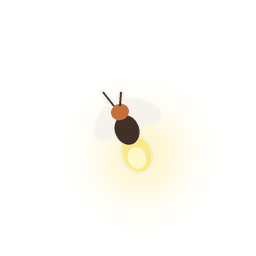
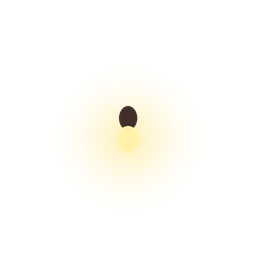
fixed firefly

Changed region(s): [[0.4062, 0.3438, 0.5938, 0.6875]]

diff --git a/Tools/CharacterArt/paint_firefly.py b/Tools/CharacterArt/paint_firefly.py
@@ -1,58 +1,23 @@
-"""The firefly companion: a tiny flat bug with a glowing tail and a soft warm glow, on a small transparent canvas.
-Deliberately plain: a few ellipses and a radial glow."""
+"""The firefly companion: a dark dot with a glowing tail and a soft warm glow. Two ellipses and a radial gradient."""
 import sys
 import numpy as np
-from PIL import Image, ImageDraw, ImageFilter
+from PIL import Image, ImageDraw
 
 N, SS = 256, 4
+CX, CY = 128, 128
 
-
-def layer():
-    return Image.new("RGBA", (N * SS, N * SS), (0, 0, 0, 0))
-
-
-def ellipse(im, cx, cy, rx, ry, colour, angle=0):
-    """An ellipse, rotated by `angle` degrees about its centre."""
-    t = np.linspace(0, 2 * np.pi, 90)
-    a = np.radians(angle)
-    x, y = rx * np.cos(t), ry * np.sin(t)
-    pts = [((cx + x[i] * np.cos(a) - y[i] * np.sin(a)) * SS, (cy + x[i] * np.sin(a) + y[i] * np.cos(a)) * SS) for i in range(len(t))]
-    ImageDraw.Draw(im).polygon(pts, fill=colour)
-
-
-TILT = -20  # leaning a little, as if flying
-CX, CY = 128, 132
-
-# Soft glow round the tail.
+# Soft warm glow.
 yy, xx = np.mgrid[0:N, 0:N]
-gx, gy = CX + 12, CY + 22
-r = np.hypot(xx - gx, yy - gy)
-glow = np.clip(1 - r / 96, 0, 1) ** 2.2 * 0.55
-glow_im = np.zeros((N, N, 4), np.uint8)
-glow_im[..., :3] = (255, 226, 120)
-glow_im[..., 3] = (glow * 255).astype(np.uint8)
-out = Image.fromarray(glow_im, "RGBA")
+glow = np.clip(1 - np.hypot(xx - CX, yy - (CY + 10)) / 90, 0, 1) ** 2.2 * 0.6
+pixels = np.zeros((N, N, 4), np.uint8)
+pixels[..., :3] = (255, 226, 120)
+pixels[..., 3] = (glow * 255).astype(np.uint8)
+out = Image.fromarray(pixels, "RGBA")
 
-bug = layer()
-# wings: two pale see-through ovals behind the body
-ellipse(bug, CX - 16, CY - 12, 22, 11, (246, 243, 236, 150), TILT - 35)
-ellipse(bug, CX + 10, CY - 20, 22, 11, (246, 243, 236, 150), TILT + 35)
-# glowing tail, then body and head
-ellipse(bug, CX + 9, CY + 22, 15, 19, (250, 232, 140, 255), TILT)
-ellipse(bug, CX + 9, CY + 26, 9, 11, (255, 248, 200, 255), TILT)
-ellipse(bug, CX - 1, CY - 2, 12, 15, (64, 48, 40, 255), TILT)
-ellipse(bug, CX - 8, CY - 20, 9, 8, (196, 112, 60, 255), TILT)  # the orange cap, like the other characters' feet
-# feelers
+# The bug: a dark body and a pale glowing tail.
+bug = Image.new("RGBA", (N * SS, N * SS), (0, 0, 0, 0))
 d = ImageDraw.Draw(bug)
-for dx in (-1, 1):
-    d.line([((CX - 11 + dx * 3) * SS, (CY - 26) * SS), ((CX - 16 + dx * 9) * SS, (CY - 40) * SS)], fill=(64, 48, 40, 255), width=2 * SS)
-
-bug = bug.resize((N, N), Image.LANCZOS)
-# a thin off-white edge round the bug, like the chalky outline on everyone else
-alpha = bug.split()[3].point(lambda v: 255 if v > 100 else 0)
-edge = alpha.filter(ImageFilter.MaxFilter(5)).filter(ImageFilter.GaussianBlur(0.6))
-rim = Image.new("RGBA", (N, N), (245, 243, 238, 0))
-rim.putalpha(edge.point(lambda v: int(v * 0.9)))
-out.alpha_composite(rim)
-out.alpha_composite(bug)
+d.ellipse([(CX - 9) * SS, (CY - 22) * SS, (CX + 9) * SS, (CY + 2) * SS], fill=(64, 48, 40, 255))
+d.ellipse([(CX - 11) * SS, (CY - 2) * SS, (CX + 11) * SS, (CY + 24) * SS], fill=(255, 240, 170, 255))
+out.alpha_composite(bug.resize((N, N), Image.LANCZOS))
 out.save(sys.argv[1])

diff --git a/Tools/CharacterArt/README.md b/Tools/CharacterArt/README.md
@@ -9,7 +9,7 @@ python Tools/CharacterArt/paint_pekapeka.py Assets/Images/Characters/Pekapeka.pn
 
 Shapes are lists of points near the top (body, head, ears, wings, feet), and colours are named just above them. Change one and run it again. A hand-painted version can replace the PNG at any time, and anything pointing at it keeps working.
 
-`paint_firefly.py` paints `Assets/Images/Characters/Firefly.png`, the firefly companion's picture on the forage screen. It's a few flat shapes and a soft glow, kept small and simple on purpose.
+`paint_firefly.py` paints `Assets/Images/Characters/Firefly.png`, the firefly companion's picture on the forage screen. Just a dark dot, a glowing tail and a soft glow, kept as simple as possible on purpose.
 
 ```bash
 python Tools/CharacterArt/paint_firefly.py Assets/Images/Characters/Firefly.png
